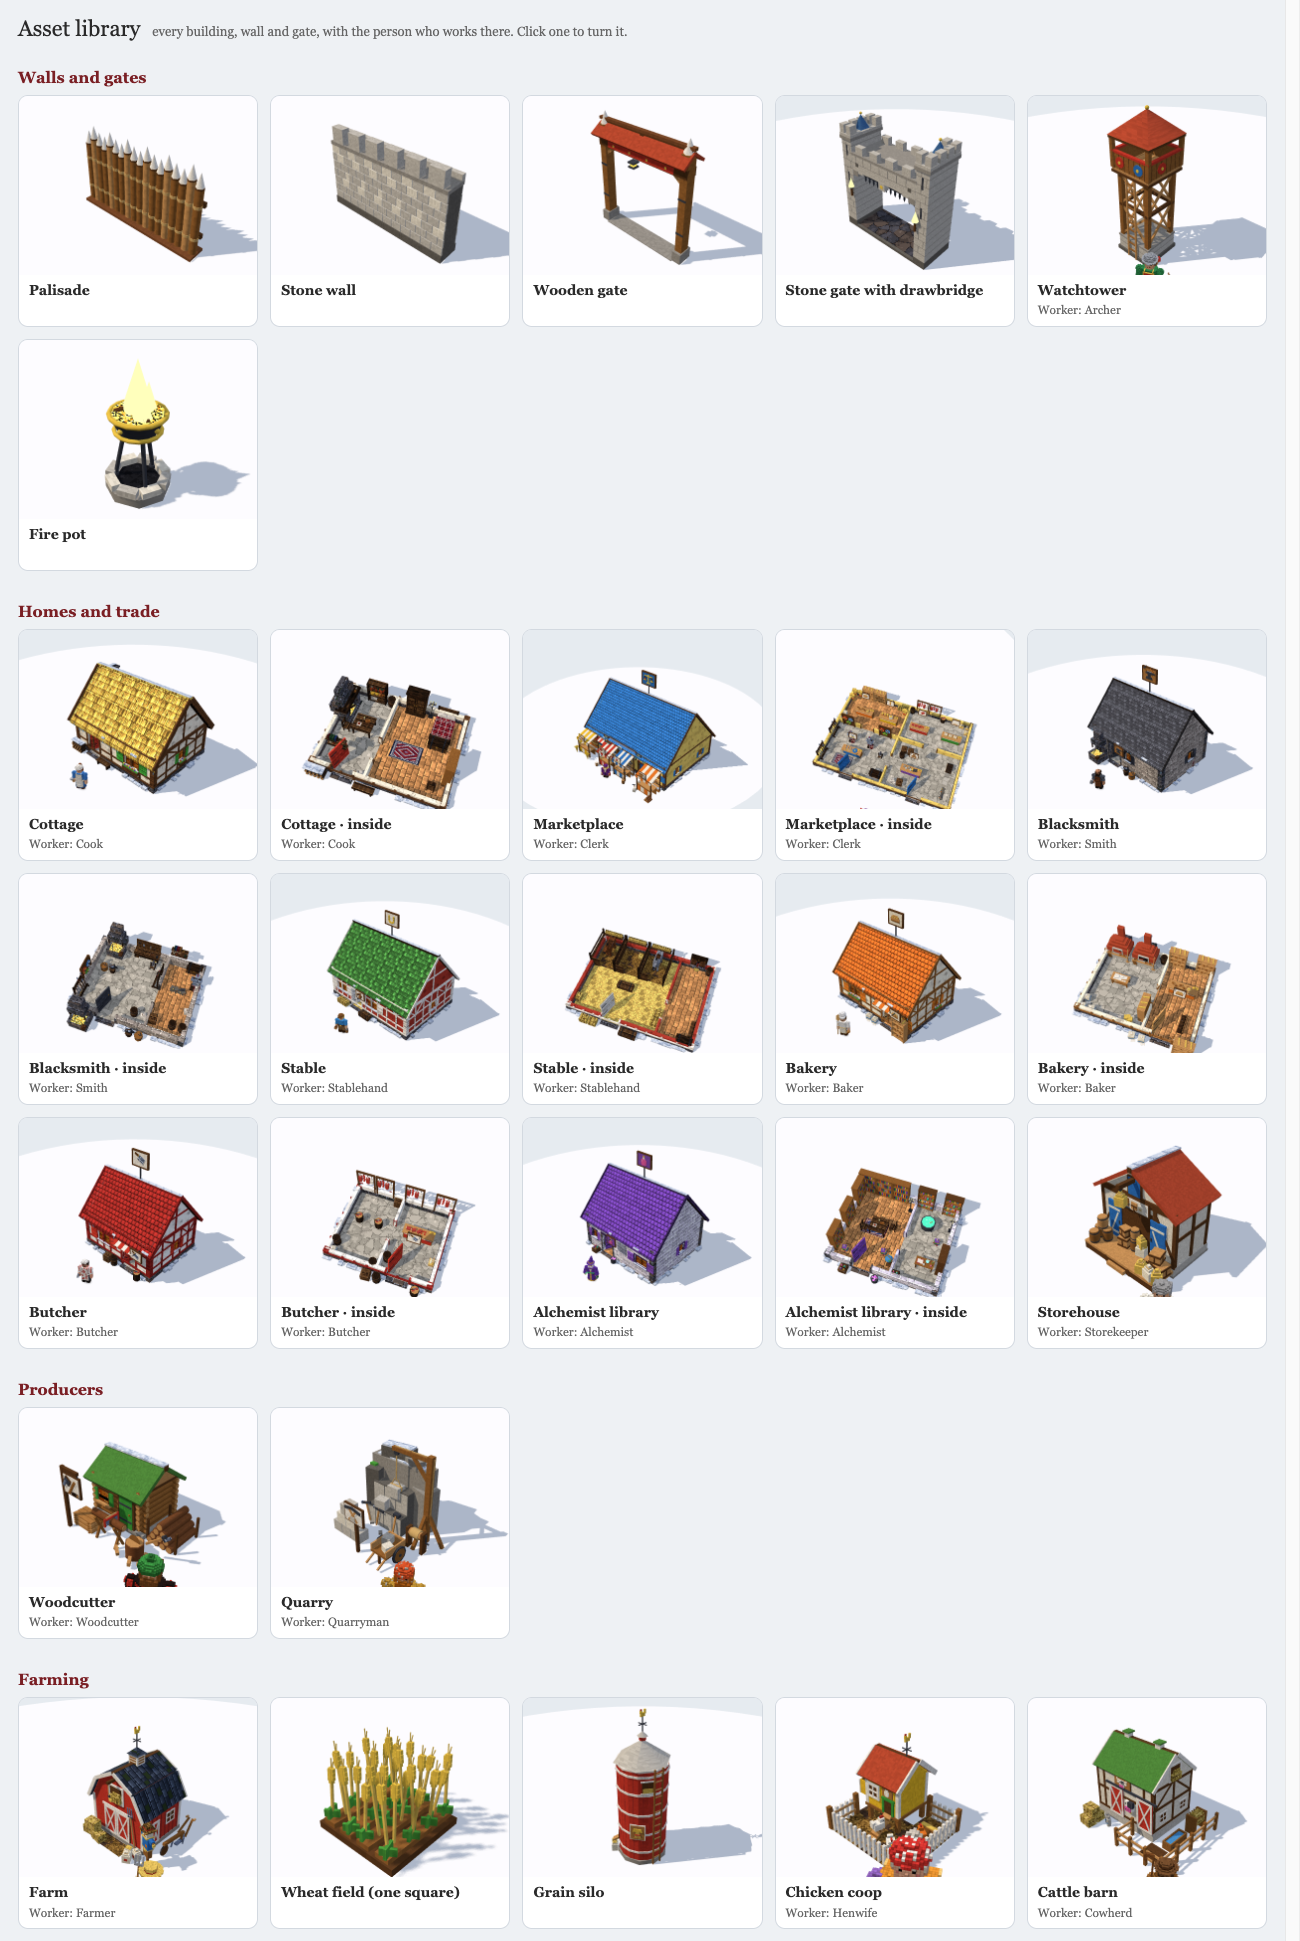
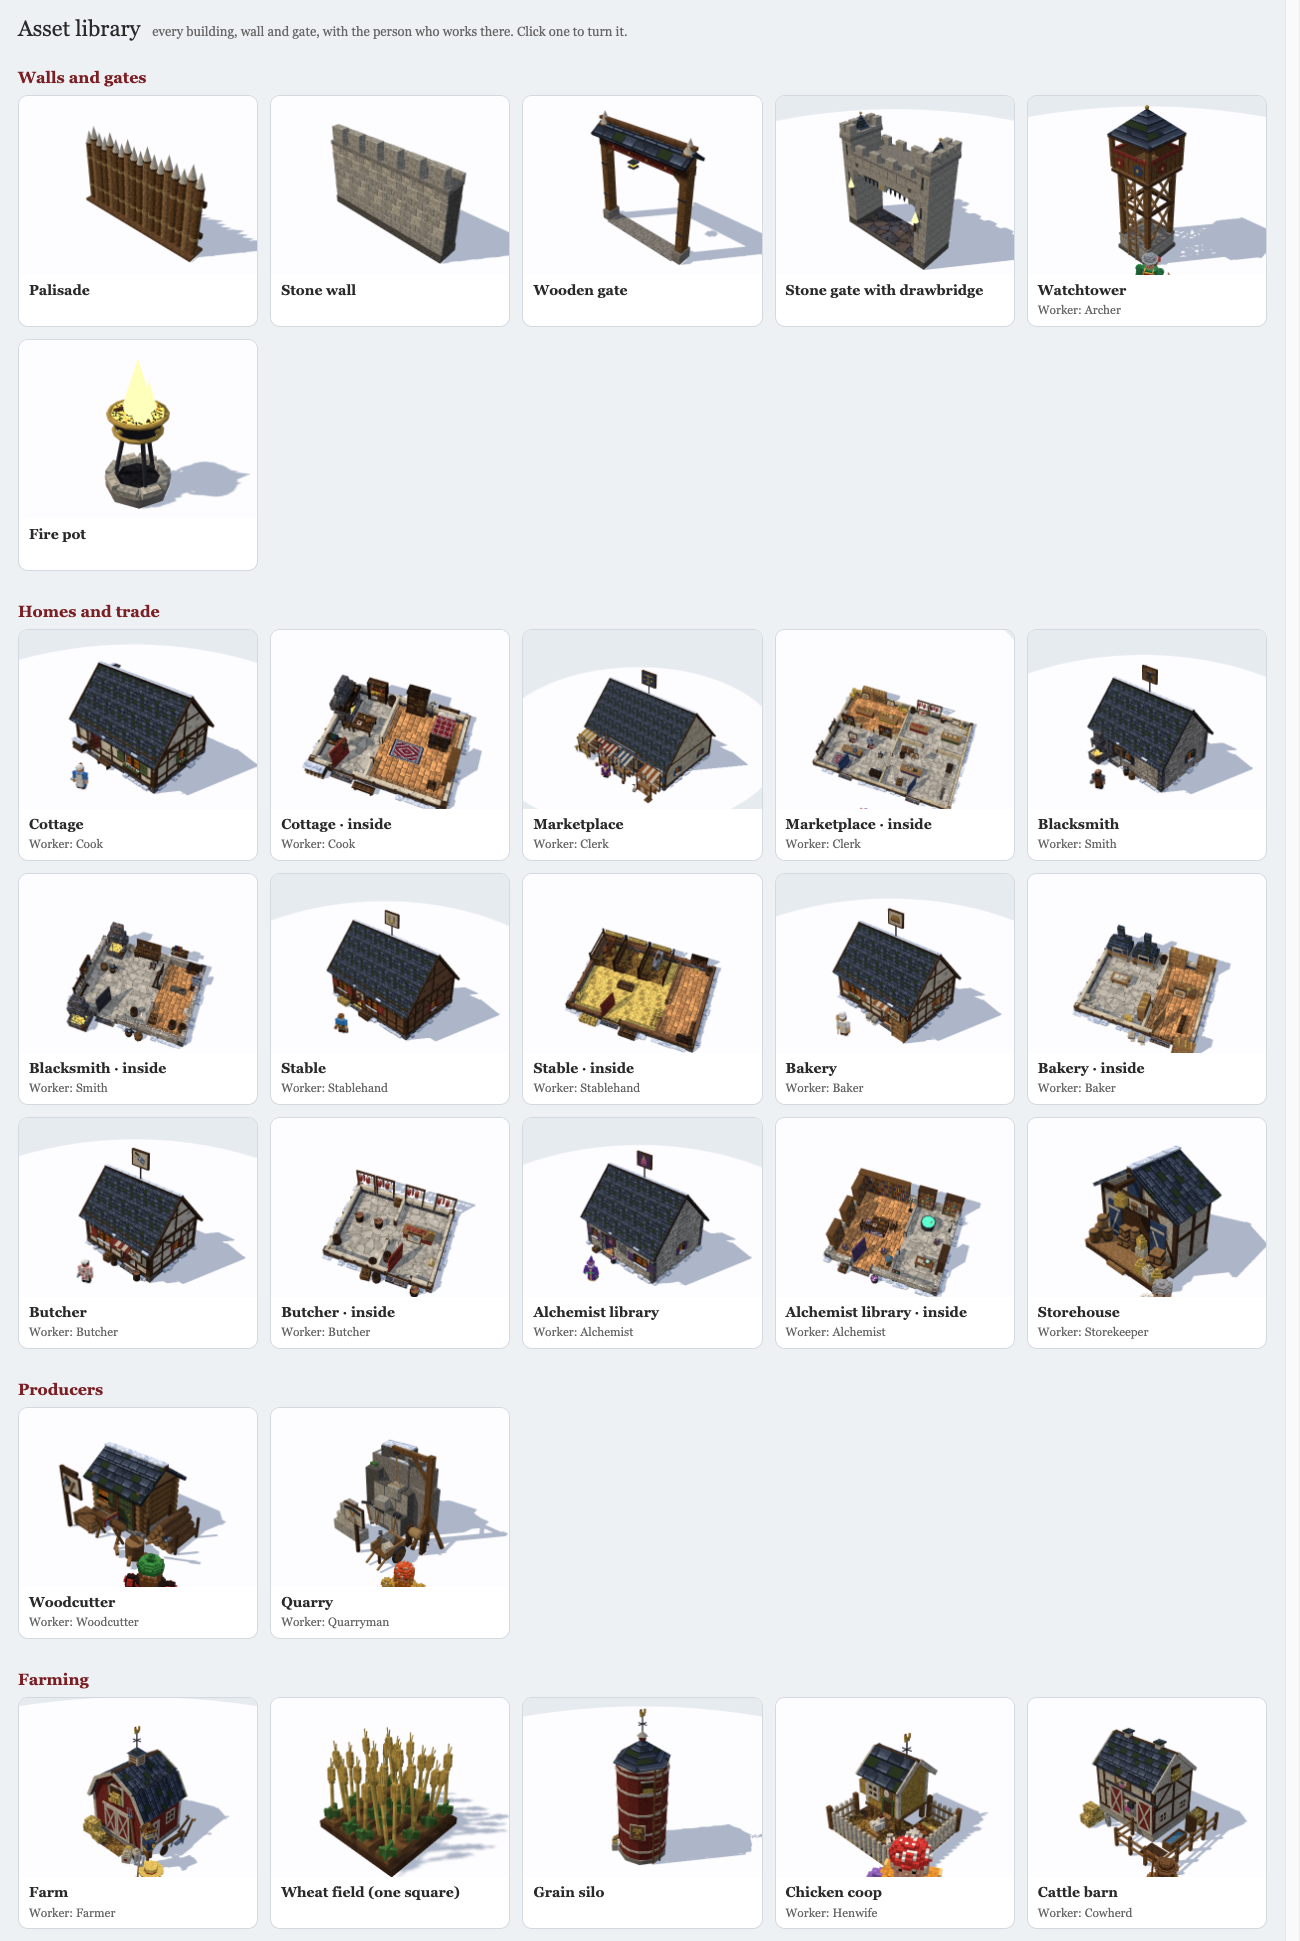
art: castle palette — muted heraldic colours, one slate roof on every building

diff --git a/src/engine/82-castle-mesh.js b/src/engine/82-castle-mesh.js
@@ -136,7 +136,7 @@
           k.box('planks', 0, 3.1, 0, 1.6, 0.12, 1.6);
           for (const s of [-1, 1]) { k.box('timber', 0, 3.22, s * 0.74, 1.6, 0.4, 0.08); k.box('timber', s * 0.74, 3.22, 0, 0.08, 0.4, 1.6); }
           for (const [x, z] of [[-0.7, -0.7], [0.7, -0.7], [-0.7, 0.7], [0.7, 0.7]]) k.box('timber', x, 3.22, z, 0.1, 0.9, 0.1);
-          k.box('shingle', 0, 4.1, 0, 1.4, 0.7, 1.4, Math.PI / 4); snowCap(0, 4.8, 0, 0.8, 0.8);
+          k.box('slate', 0, 4.1, 0, 1.4, 0.7, 1.4, Math.PI / 4); snowCap(0, 4.8, 0, 0.8, 0.8);
           for (let i = 0; i < 6; i++) k.box('wood', 0.78, 0.9 + i * 0.38, 0.1, 0.05, 0.05, 0.4);
           break;
         }
@@ -150,7 +150,7 @@
         case 'field': { k.box('bark', 0, 0, 0, 0.5, 0.05, 0.5); for (const [x, z] of [[-0.12, -0.12], [0.12, 0.1], [-0.1, 0.13], [0.13, -0.11]]) k.box('hay', x, 0.05, z, 0.06, 0.25, 0.06); break; }
         case 'farm': {   // a small barn with a thatched roof, a big door and hay bales
           k.box('timber', 0, 0, 0, 2.8, 1.7, 2.2);
-          k.box('thatch', 0, 1.7, -0.62, 3.1, 0.14, 1.5, 0, -0.6); k.box('thatch', 0, 1.7, 0.62, 3.1, 0.14, 1.5, 0, 0.6);
+          k.box('slate', 0, 1.7, -0.62, 3.1, 0.14, 1.5, 0, -0.6); k.box('slate', 0, 1.7, 0.62, 3.1, 0.14, 1.5, 0, 0.6);
           k.box('roofSnow', 0, 2.0, -0.58, 3.0, 0.04, 1.38, 0, -0.6); k.box('roofSnow', 0, 2.0, 0.58, 3.0, 0.04, 1.38, 0, 0.6);
           k.box('wood', 0, 0, 1.11, 1.1, 1.3, 0.05); k.box('timber', 0, 0.62, 1.15, 1.1, 0.08, 0.04, 0, 0, 0.85); k.box('timber', 0, 0.62, 1.15, 1.1, 0.08, 0.04, 0, 0, -0.85);
           for (const [x, z] of [[1.7, 0.6], [1.7, 1.15], [1.95, 0.85]]) k.box('hay', x, 0, z, 0.5, 0.42, 0.42); k.box('hay', 1.8, 0.42, 0.88, 0.5, 0.4, 0.42);
@@ -158,12 +158,12 @@
         }
         case 'coop': {   // a little raised hen house with a ramp and straw
           for (const [x, z] of [[-0.6, -0.5], [0.6, -0.5], [-0.6, 0.5], [0.6, 0.5]]) k.box('timber', x, 0, z, 0.1, 0.4, 0.1);
-          k.box('planks', 0, 0.4, 0, 1.4, 0.75, 1.2); k.box('shingle', 0, 1.15, -0.32, 1.6, 0.1, 0.75, 0, -0.5); k.box('shingle', 0, 1.15, 0.32, 1.6, 0.1, 0.75, 0, 0.5);
+          k.box('planks', 0, 0.4, 0, 1.4, 0.75, 1.2); k.box('slate', 0, 1.15, -0.32, 1.6, 0.1, 0.75, 0, -0.5); k.box('slate', 0, 1.15, 0.32, 1.6, 0.1, 0.75, 0, 0.5);
           k.box('soot', 0, 0.5, 0.61, 0.3, 0.32, 0.02); k.box('wood', 0, 0.02, 0.85, 0.28, 0.06, 0.6, 0, 0.6); k.box('straw', 0.45, 0, 0.75, 0.4, 0.15, 0.3);
           break;
         }
         case 'barn': {   // a long cattle barn with a hayloft door and a trough
-          k.box('timber', 0, 0, 0, 3.2, 1.9, 2.4); k.box('shingle', 0, 1.9, -0.68, 3.5, 0.14, 1.6, 0, -0.62); k.box('shingle', 0, 1.9, 0.68, 3.5, 0.14, 1.6, 0, 0.62);
+          k.box('timber', 0, 0, 0, 3.2, 1.9, 2.4); k.box('slate', 0, 1.9, -0.68, 3.5, 0.14, 1.6, 0, -0.62); k.box('slate', 0, 1.9, 0.68, 3.5, 0.14, 1.6, 0, 0.62);
           k.box('roofSnow', 0, 2.24, -0.62, 3.4, 0.04, 1.4, 0, -0.62); k.box('roofSnow', 0, 2.24, 0.62, 3.4, 0.04, 1.4, 0, 0.62);
           k.box('wood', 0, 0, 1.21, 1.3, 1.45, 0.05); k.box('timber', 0, 0.7, 1.25, 1.3, 0.08, 0.04, 0, 0, 0.8); k.box('timber', 0, 0.7, 1.25, 1.3, 0.08, 0.04, 0, 0, -0.8);
           k.box('wood', 1.61, 1.95, 0, 0.05, 0.45, 0.5); k.box('planks', -1.0, 0, 1.6, 1.0, 0.3, 0.35); k.box('hay', -1.0, 0.3, 1.6, 0.9, 0.06, 0.3);
@@ -171,7 +171,7 @@
         }
         case 'silo': {   // a tall round grain store with an iron-banded wall and a cone roof
           k.geo('planks', CYL, 0, 1.7, 0, 0, 0, 0, 1.45, 3.4, 1.45); for (const y of [0.6, 1.7, 2.8]) k.geo('iron', CYL, 0, y, 0, 0, 0, 0, 1.5, 0.08, 1.5);
-          k.geo('shingle', CONE6, 0, 3.85, 0, 0, 0, 0, 1.0, 0.9, 1.0); k.box('wood', 0, 0, 0.72, 0.5, 0.9, 0.06);
+          k.geo('slate', CONE6, 0, 3.85, 0, 0, 0, 0, 1.0, 0.9, 1.0); k.box('wood', 0, 0, 0.72, 0.5, 0.9, 0.06);
           break;
         }
         case 'market_stalls': {   // a row of three open stalls under striped awnings, goods heaped on trestles, barrels and sacks about
@@ -193,7 +193,7 @@
         case 'market_pavilion': {   // an open timber market hall: a steep roof on posts, counters inside, a stone market cross out front
           for (const x of [-1.6, 0, 1.6]) for (const z of [-0.95, 0.95]) { k.box('ashlar', x, 0, z, 0.3, 0.2, 0.3); k.box('timber', x, 0.2, z, 0.16, 1.9, 0.16); }
           k.box('timber', 0, 2.1, -0.95, 3.5, 0.14, 0.16); k.box('timber', 0, 2.1, 0.95, 3.5, 0.14, 0.16);
-          k.box('shingle', 0, 2.35, -0.6, 3.9, 0.12, 1.45, 0, -0.75); k.box('shingle', 0, 2.35, 0.6, 3.9, 0.12, 1.45, 0, 0.75);
+          k.box('slate', 0, 2.35, -0.6, 3.9, 0.12, 1.45, 0, -0.75); k.box('slate', 0, 2.35, 0.6, 3.9, 0.12, 1.45, 0, 0.75);
           k.box('roofSnow', 0, 2.48, -0.58, 3.8, 0.03, 1.35, 0, -0.75); k.box('roofSnow', 0, 2.48, 0.58, 3.8, 0.03, 1.35, 0, 0.75);
           k.box('planks', 0, 0, -0.45, 2.9, 0.75, 0.45); k.box('planks', -0.9, 0, 0.45, 1.1, 0.75, 0.45); k.box('planks', 0.9, 0, 0.45, 1.1, 0.75, 0.45);
           for (const [x, z, m] of [[-1.0, -0.45, 'food'], [-0.4, -0.45, 'cheese'], [0.3, -0.45, 'bread'], [0.95, -0.45, 'green'], [-0.95, 0.45, 'linen'], [0.95, 0.45, 'hay']]) k.box(m, x, 0.75, z, 0.4, 0.14, 0.3, 0.2);
@@ -228,7 +228,7 @@
         }
         case 'woodcutter': {
           k.box('timber', 0, 0, 0, 2.2, 1.3, 1.6);
-          k.box('thatch', 0, 1.3, -0.45, 2.5, 0.12, 1.15, 0, -0.55); k.box('thatch', 0, 1.3, 0.45, 2.5, 0.12, 1.15, 0, 0.55);
+          k.box('slate', 0, 1.3, -0.45, 2.5, 0.12, 1.15, 0, -0.55); k.box('slate', 0, 1.3, 0.45, 2.5, 0.12, 1.15, 0, 0.55);
           k.box('roofSnow', 0, 1.56, -0.42, 2.4, 0.04, 1.05, 0, -0.55); k.box('roofSnow', 0, 1.56, 0.42, 2.4, 0.04, 1.05, 0, 0.55);
           k.box('wood', 0.3, 0, 0.81, 0.5, 0.9, 0.04); k.box('window', -0.6, 0.6, 0.81, 0.35, 0.3, 0.02);
           for (let i = 0; i < 3; i++) for (let j = 0; j < 3 - i; j++) k.geo('bark', CYL8, -0.9 + j * 0.26 + i * 0.13, 0.12 + i * 0.22, 1.05, Math.PI / 2, 0, 0, 0.11, 0.7, 0.11);
@@ -275,7 +275,7 @@
         }
         case 'storehouse': {
           k.box('ashlar', 0, 0, 0, 2.6, 1.2, 2); k.box('timber', 0, 1.2, 0, 2.6, 0.7, 2);
-          k.box('shingle', 0, 1.9, -0.55, 2.9, 0.12, 1.25, 0, -0.5); k.box('shingle', 0, 1.9, 0.55, 2.9, 0.12, 1.25, 0, 0.5); k.box('roofSnow', 0, 2.2, 0, 2.8, 0.04, 0.6);
+          k.box('slate', 0, 1.9, -0.55, 2.9, 0.12, 1.25, 0, -0.5); k.box('slate', 0, 1.9, 0.55, 2.9, 0.12, 1.25, 0, 0.5); k.box('roofSnow', 0, 2.2, 0, 2.8, 0.04, 0.6);
           k.box('wood', 0, 0, 1.01, 0.7, 1, 0.04); k.box('iron', 0, 0.4, 1.04, 0.72, 0.06, 0.02); k.box('iron', 0, 0.75, 1.04, 0.72, 0.06, 0.02);
           for (let i = 0; i < 3; i++) k.geo('wood', CYL8, -1.1 + i * 0.32, 0.25, 1.3, 0, 0, 0, 0.15, 0.5, 0.15); k.box('crate', 1, 0, 1.3, 0.4, 0.4, 0.4, 0.3); k.box('hay', 0.95, 0.4, 1.3, 0.3, 0.25, 0.3);
           break;
@@ -305,7 +305,7 @@
         }
         case 'barracks': {
           k.box('timber', 0, 0, 0, 4, 1.2, 1.8);
-          k.box('shingle', 0, 1.2, -0.5, 4.3, 0.12, 1.2, 0, -0.45); k.box('shingle', 0, 1.2, 0.5, 4.3, 0.12, 1.2, 0, 0.45); k.box('roofSnow', 0, 1.45, 0, 4.2, 0.04, 0.6);
+          k.box('slate', 0, 1.2, -0.5, 4.3, 0.12, 1.2, 0, -0.45); k.box('slate', 0, 1.2, 0.5, 4.3, 0.12, 1.2, 0, 0.45); k.box('roofSnow', 0, 1.45, 0, 4.2, 0.04, 0.6);
           for (let i = 0; i < 3; i++) k.box('wood', -1.2 + i * 1.2, 0, 0.91, 0.5, 0.95, 0.04);
           k.box('timber', 2.2, 0, 0.3, 0.1, 1, 0.1); for (let i = 0; i < 3; i++) k.box('steel', 2.25, 0.3 + i * 0.05, 0.1 + i * 0.2, 0.03, 1.2, 0.03);
           k.geo('clothBlue', CYL8, -2.15, 0.65, 0.3, 0, 0, Math.PI / 2, 0.3, 0.05, 0.3);

diff --git a/src/engine/71-building-data.js b/src/engine/71-building-data.js
@@ -20,19 +20,19 @@
        bunting [colours]  pennants along the front eave   awning [colourA, colourB]  striped awning over the main door
        flowerBoxes  window boxes with flowers   fill  interior fill light strength (0 = none) */
   const LOOKS = {
-    cottage: { wallColor: '#f1e7d2', trim: '#5b3a22', doorColor: 'paintRed', shutterColor: 'paintGreen', roof: { color: '#e0b04e', snow: 'light' }, flowerBoxes: true, fill: 1,
+    cottage: { wallColor: '#c9bfa8', trim: '#3e2a1a', doorColor: 'paintRed', shutterColor: 'paintGreen', roof: { snow: 'light' }, flowerBoxes: true, fill: 1,
       props: [{ type: 'woodpile', side: 'l', at: 0 }, { type: 'bench', side: 'r', at: 0 }] },
-    smithy: { wallColor: '#9a9088', trim: '#2c2a2a', doorColor: 'ironDark', shutterColor: 'ironDark', roof: { color: '#4a4c55', snow: 'light' }, fill: 1,
+    smithy: { wallColor: '#8a847b', trim: '#2c2a2a', doorColor: 'ironDark', shutterColor: 'ironDark', roof: { snow: 'light' }, fill: 1,
       sign: { icon: 'anvil', board: 'signBoard', emblem: true }, props: [{ type: 'forge', side: 'l', at: 0 }, { type: 'anvil', side: 'r', at: 1 }, { type: 'quench_tub', side: 'r', at: 2 }] },
-    stable: { wallColor: '#a8382c', trim: '#f2ece0', doorColor: 'paintWhite', shutterColor: 'paintWhite', roof: { color: '#3f7a3a', snow: 'light' }, fill: 1,
+    stable: { wallColor: '#6e4c33', trim: '#3a2818', doorColor: 'paintRed', shutterColor: 'paintRed', roof: { snow: 'light' }, fill: 1,
       sign: { icon: 'horse', emblemIcon: 'horseshoe', board: 'paintWhite', emblem: true }, props: [{ type: 'hay_bale', side: 'l', at: 0 }, { type: 'hay_bale', side: 'l', at: 1 }, { type: 'trough', side: 'r', at: 0 }] },
-    market_hall: { wallColor: '#f0cf6a', trim: '#5b3a22', doorColor: 'paintBlue', shutterColor: 'paintBlue', roof: { color: '#2f6fb8', snow: 'light' }, fill: 1.2,
-      sign: { icon: 'scales', board: 'paintBlue', text: 'MARKET', textColor: '#ffd54a', emblem: true }, bunting: ['#d8402e', '#f0c43a', '#2f72c0', '#3f9a3a', '#f4efe4'], awning: ['#d8402e', '#f4efe4'] },
-    bakery: { wallColor: '#f6ead2', trim: '#8a5a2e', doorColor: 'woodLight', shutterColor: 'paintOrange', roof: { color: '#d06a2a', snow: 'light' }, flowerBoxes: true, fill: 1,
-      sign: { icon: 'bread', board: 'canvas', emblem: true }, awning: ['#e8792a', '#f4efe4'], props: [{ type: 'flour_sack', side: 'l', at: 0 }, { type: 'flour_sack', side: 'l', at: 1 }, { type: 'bread_rack', side: 'r', at: 0 }] },
-    butcher: { wallColor: '#f4f1ea', trim: '#8e2420', doorColor: 'paintRed', shutterColor: 'paintRed', roof: { color: '#9a2a26', snow: 'light' }, fill: 1,
-      sign: { icon: 'cleaver', board: 'paintWhite', emblem: true }, awning: ['#c8392b', '#f4efe4'], props: [{ type: 'chopping_block', side: 'r', at: 0 }, { type: 'barrel', side: 'l', at: 0 }, { type: 'crate', side: 'l', at: 1 }] },
-    library: { wallColor: '#d8d2e4', trim: '#3a2a52', doorColor: 'paintPurple', shutterColor: 'paintPurple', roof: { color: '#6a3fa8', snow: 'light' }, fill: 1.1,
+    market_hall: { wallColor: '#b8ab8c', trim: '#3e2a1a', doorColor: 'paintBlue', shutterColor: 'paintBlue', roof: { snow: 'light' }, fill: 1.2,
+      sign: { icon: 'scales', board: 'paintBlue', text: 'MARKET', textColor: '#d8b45a', emblem: true }, bunting: ['#7c2f27', '#b08d3e', '#35496b', '#7c2f27', '#b08d3e'], awning: ['#7c2f27', '#cbc2ae'] },
+    bakery: { wallColor: '#c6baa0', trim: '#4a3220', doorColor: 'woodLight', shutterColor: 'paintOrange', roof: { snow: 'light' }, flowerBoxes: true, fill: 1,
+      sign: { icon: 'bread', board: 'canvas', emblem: true }, awning: ['#94552c', '#cbc2ae'], props: [{ type: 'flour_sack', side: 'l', at: 0 }, { type: 'flour_sack', side: 'l', at: 1 }, { type: 'bread_rack', side: 'r', at: 0 }] },
+    butcher: { wallColor: '#c2b9a6', trim: '#3e2a1a', doorColor: 'paintRed', shutterColor: 'paintRed', roof: { snow: 'light' }, fill: 1,
+      sign: { icon: 'cleaver', board: 'paintWhite', emblem: true }, awning: ['#7c2f27', '#cbc2ae'], props: [{ type: 'chopping_block', side: 'r', at: 0 }, { type: 'barrel', side: 'l', at: 0 }, { type: 'crate', side: 'l', at: 1 }] },
+    library: { wallColor: '#9a958a', trim: '#2e2420', doorColor: 'paintPurple', shutterColor: 'paintPurple', roof: { snow: 'light' }, fill: 1.1,
       sign: { icon: 'potion', board: 'paintPurple', emblem: true }, props: [{ type: 'potion_crate', side: 'l', at: 0 }, { type: 'cauldron_small', side: 'r', at: 0 }] },
     keep: { trim: '#3a2a1c', roof: { snow: true }, fill: 1 },
   };
@@ -97,8 +97,8 @@
       r = r || {};
       const look = LOOKS[o.prefab] || {}, lr = look.roof || {};
       const snow = r.snow !== undefined ? r.snow : lr.snow !== undefined ? lr.snow : true;
-      o.roof = { style: ROOF_STYLES[r.style] ? r.style : 'gable', material: ROOF_MATERIALS[r.material] ? r.material : 'thatch', snow: snow === 'light' ? 'light' : snow !== false, pitch: Math.max(0.45, Math.min(0.9, +r.pitch || 0.72)) };
-      const rc = r.color !== undefined ? r.color : lr.color; if (isColor(rc)) o.roof.color = rc;
+      o.roof = { style: ROOF_STYLES[r.style] ? r.style : 'gable', material: 'slate',   /* every roof in the castle is the same slate */ snow: snow === 'light' ? 'light' : snow !== false, pitch: Math.max(0.45, Math.min(0.9, +r.pitch || 0.72)) };
+      /* roof colour is fixed: one slate for every building */
       // look (all optional): explicit fields win, then the prefab's look
       for (const k of ['wallColor', 'trim', 'doorColor', 'shutterColor']) { const v = o[k] !== undefined ? o[k] : look[k]; if (isColor(v)) o[k] = v; else delete o[k]; }
       const sg = o.sign !== undefined ? o.sign : look.sign;

diff --git a/src/engine/72-voxkit.js b/src/engine/72-voxkit.js
@@ -93,14 +93,18 @@
       lam('hangingRed', tex(P.hanging(TP.cloth), null, { mips: false, flipY: true }), { alphaTest: 0.5, side: THREE.DoubleSide });
       // the bright palette: clean colours that read at a glance (signs, painted trim, roofs, goods). Each gets a faint grain so it is not plastic.
       const gc = document.createElement('canvas'); gc.width = gc.height = 16; const gx = gc.getContext('2d'), gd = gx.createImageData(16, 16);
-      for (let i = 0; i < 256; i++) { const v = 228 + Math.floor(Math.random() * 27); gd.data.set([v, v, v, 255], i * 4); } gx.putImageData(gd, 0, 0);   // a faint, near-white grain: it keeps the colour clean
+      for (let i = 0; i < 256; i++) { const v = 196 + Math.floor(Math.random() * 59); gd.data.set([v, v, v, 255], i * 4); } gx.putImageData(gd, 0, 0);   // a faint, near-white grain: it keeps the colour clean
       const grain = new THREE.CanvasTexture(gc); grain.magFilter = THREE.NearestFilter; grain.wrapS = grain.wrapT = THREE.RepeatWrapping; grain.repeat.set(2, 2); grain.colorSpace = THREE.SRGBColorSpace;
-      const PAINT = { paintRed: '#c8392b', paintBlue: '#2f72c0', paintGreen: '#3f9a3a', paintYellow: '#f0bf2e', paintWhite: '#f4efe4', paintOrange: '#e8792a', paintPurple: '#7b4bb0',
-        whitewash: '#ece5d3', woodLight: '#c99358', woodMid: '#94612f', woodDark: '#5e3c20', roofRed: '#b84a30', roofBlue: '#3d6696', roofGreen: '#4f8a3c', roofBrown: '#7a4a2a',
-        stoneLight: '#c6c1b6', stoneMid: '#9a958c', stoneDark: '#67635c', gold: '#f0c94a', ironDark: '#3c3f47', rope: '#d2ad6e', canvas: '#f1e8d0', wheatGold: '#ecc65a',
-        leafGreen: '#4ea33e', waterBlue: '#4a94d0', meatRed: '#b8443c', eggWhite: '#f8f2e4', signBoard: '#b07a42', potionPink: '#e05aa0', potionTeal: '#2ec4b0', bookRed: '#9a2e2a', bookBlue: '#2c4f8a' };
+      // the castle palette: weathered heraldic colours (oxblood, woad blue, moss, ochre, aged limewash) over stone and dark timber.
+      // Every roof uses one slate (roofRed/Blue/Green are aliases of it, below), so the town reads as one castle.
+      const PAINT = { paintRed: '#7c2f27', paintBlue: '#35496b', paintGreen: '#4b5a37', paintYellow: '#b08d3e', paintWhite: '#cbc2ae', paintOrange: '#94552c', paintPurple: '#4f3c63',
+        whitewash: '#c4bba7', woodLight: '#9c7448', woodMid: '#74502c', woodDark: '#4a3220', roofRed: '#565c66', roofBlue: '#565c66', roofGreen: '#565c66', roofBrown: '#6a4a2e',
+        stoneLight: '#aaa597', stoneMid: '#87827a', stoneDark: '#5c5952', gold: '#c4a04a', ironDark: '#36383e', rope: '#a88a5a', canvas: '#c9bea4', wheatGold: '#d2b052',
+        leafGreen: '#4a7a3a', waterBlue: '#4a7aa0', meatRed: '#a8443c', eggWhite: '#ece4d2', signBoard: '#7e5a36', potionPink: '#c45a90', potionTeal: '#2ea898', bookRed: '#7a2e2a', bookBlue: '#2c4370' };
       for (const [k, c] of Object.entries(PAINT)) this.map.set(k, new THREE.MeshLambertMaterial({ map: grain, color: new THREE.Color(c) }));
       this.paint = PAINT;
+      // one roof for the whole castle: the slate texture, shared by every roof key
+      const roof = this.map.get('slate'); if (roof) for (const k of ['roofRed', 'roofBlue', 'roofGreen']) this.map.set(k, roof);
       // emissive parts: colour > 1 feeds the bloom pass
       const basic = (key, t, col) => this.map.set(key, new THREE.MeshBasicMaterial({ map: t, color: new THREE.Color(col, col * 0.92, col * 0.8) }));
       basic('coals', tex(P.coals(), [0.5, 0.5]), 2.2);

diff --git a/src/engine/82d-art-farming.js b/src/engine/82d-art-farming.js
@@ -171,7 +171,7 @@
       }
       // roof: a silver-grey dome cap with a vent
       k.geo('paintWhite', CYL, 0, H1 + 0.03, 0, 0, 0, 0, 0.8, 0.06, 0.8);
-      k.geo('stoneLight', CONE6, 0, H1 + 0.06 + 0.3, 0, 0, Math.PI / 6, 0, 0.86, 0.6, 0.86);
+      k.geo('slate', CONE6, 0, H1 + 0.06 + 0.3, 0, 0, Math.PI / 6, 0, 0.86, 0.6, 0.86);
       k.geo('paintRed', CYL8, 0, H1 + 0.7, 0, 0, 0, 0, 0.1, 0.12, 0.1); k.geo('stoneLight', CONE6, 0, H1 + 0.82, 0, 0, 0, 0, 0.16, 0.14, 0.16);
       vane1(k, 0, H1 + 0.88, 0);
       // a hatch near the top (front-right) with wheat showing
